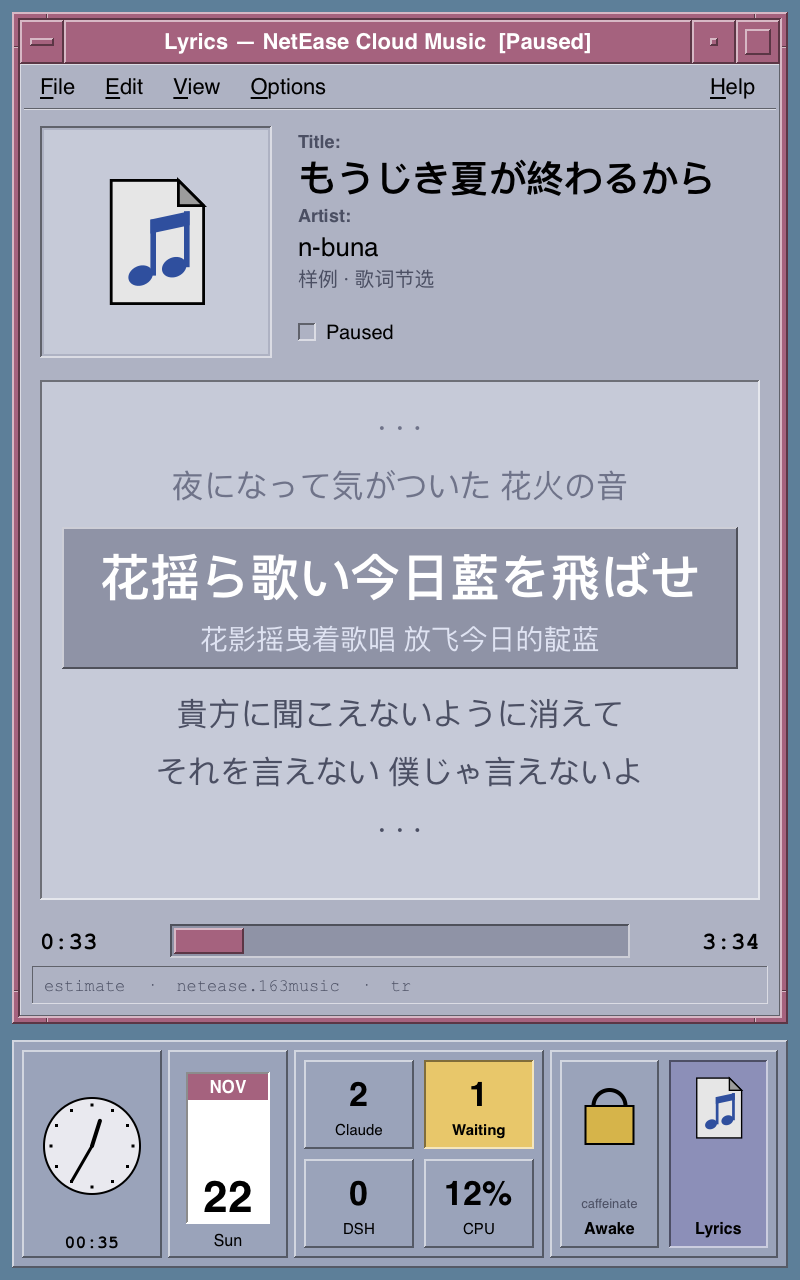
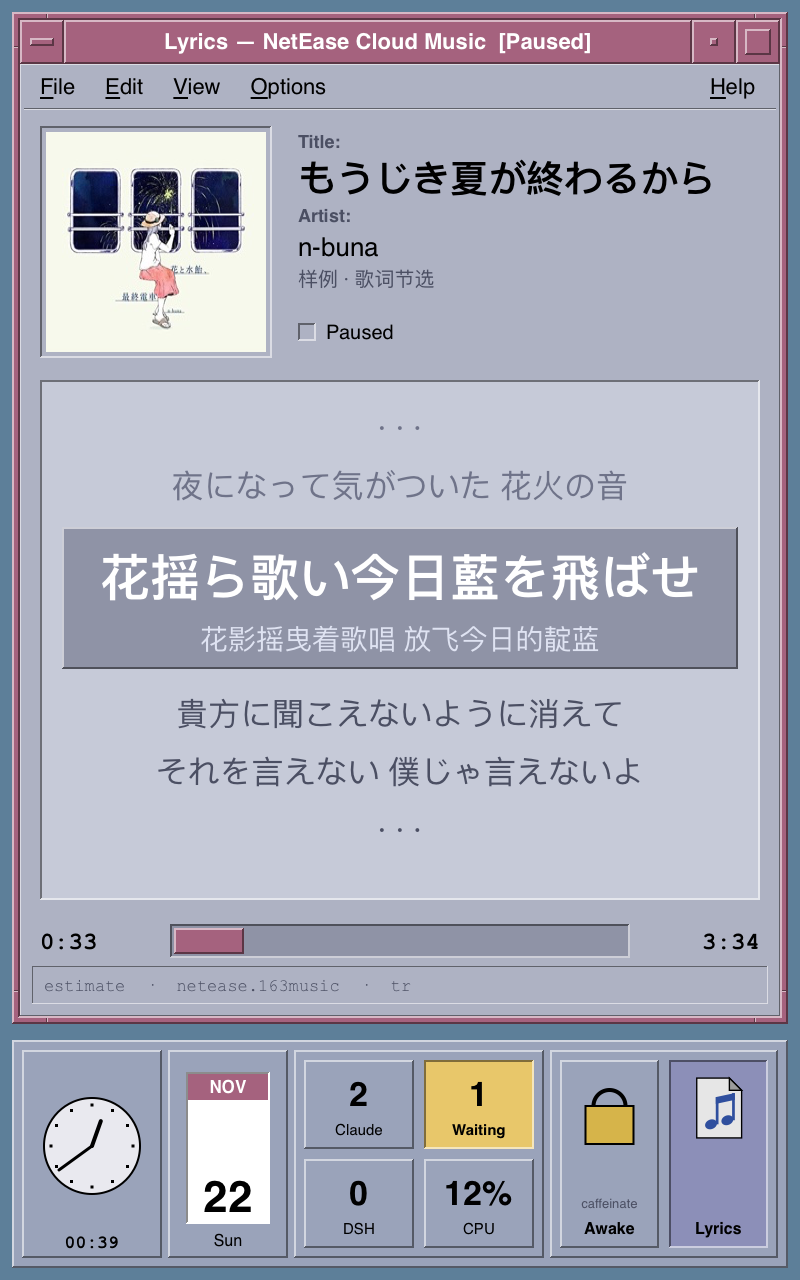
docs: 样例加专辑封面《花と水飴、最終電車》；--png --sample 支持本地封面
样例 JSON 的 cover 写相对样例目录的文件名时，--png 截图模式会读进来画封面（URL 照旧不在这里拉）。
封面缩到 220px 并用原图底色补成正方形，放在 mac/Samples/cover.jpg。

Changed region(s): [[0.0312, 0.0938, 0.3438, 0.2812], [0.0938, 0.875, 0.125, 0.9062]]

diff --git a/mac/Sources/monita-cs80/main.swift b/mac/Sources/monita-cs80/main.swift
@@ -402,6 +402,12 @@ if let png = pngPath {
         d.play.at = nowMs()
         if let p = samplePos { d.play.pos = p }
         shared.data = d
+        // 样例的 cover 写本地文件名（相对样例所在目录），预览图就带封面
+        if !d.cover.isEmpty, !d.cover.contains("://") {
+            let path = URL(fileURLWithPath: sp).deletingLastPathComponent().appendingPathComponent(d.cover).path
+            if let b = FileManager.default.contents(atPath: path) { shared.cover = (d.cover, decodeImage([UInt8](b))) }
+            else { print("读不了样例封面 \(path)，按无封面画") }
+        }
         // 面板数据也用固定值，预览图不带本机状态
         shared.updatePanel {
             $0.agents = AgentCounts(claude: 2, waiting: 1, dsh: 0); $0.waitingLit = true

diff --git a/README.md b/README.md
@@ -97,7 +97,7 @@ mac/                    Swift 包 MonitaCS80
   Sources/MonitaCore/   纯逻辑：歌词定位/折行、像素与 tile diff、推帧决策、帧键省电
   Sources/monita-cs80/  渲染器本体（CoreGraphics 画面、锁屏、推帧循环）
   Tests/                swift-testing 用例
-  Samples/              预览图用的样例数据（歌词节选自 n-buna《もうじき夏が終わるから》，仅作预览）
+  Samples/              预览图用的样例数据（歌词节选和封面来自 n-buna《もうじき夏が終わるから》/《花と水飴、最終電車》，仅作预览）
 tools/
   host-ref/             Python 参考上位机（pyserial）：握手、推图、差分、测吞吐、撕裂对比
   lyrics/               lyrics.py（当前播放 + 网易云歌词 + 小 HTTP 服务）· lyrics_core.js · build-nowplaying.sh · 测试
